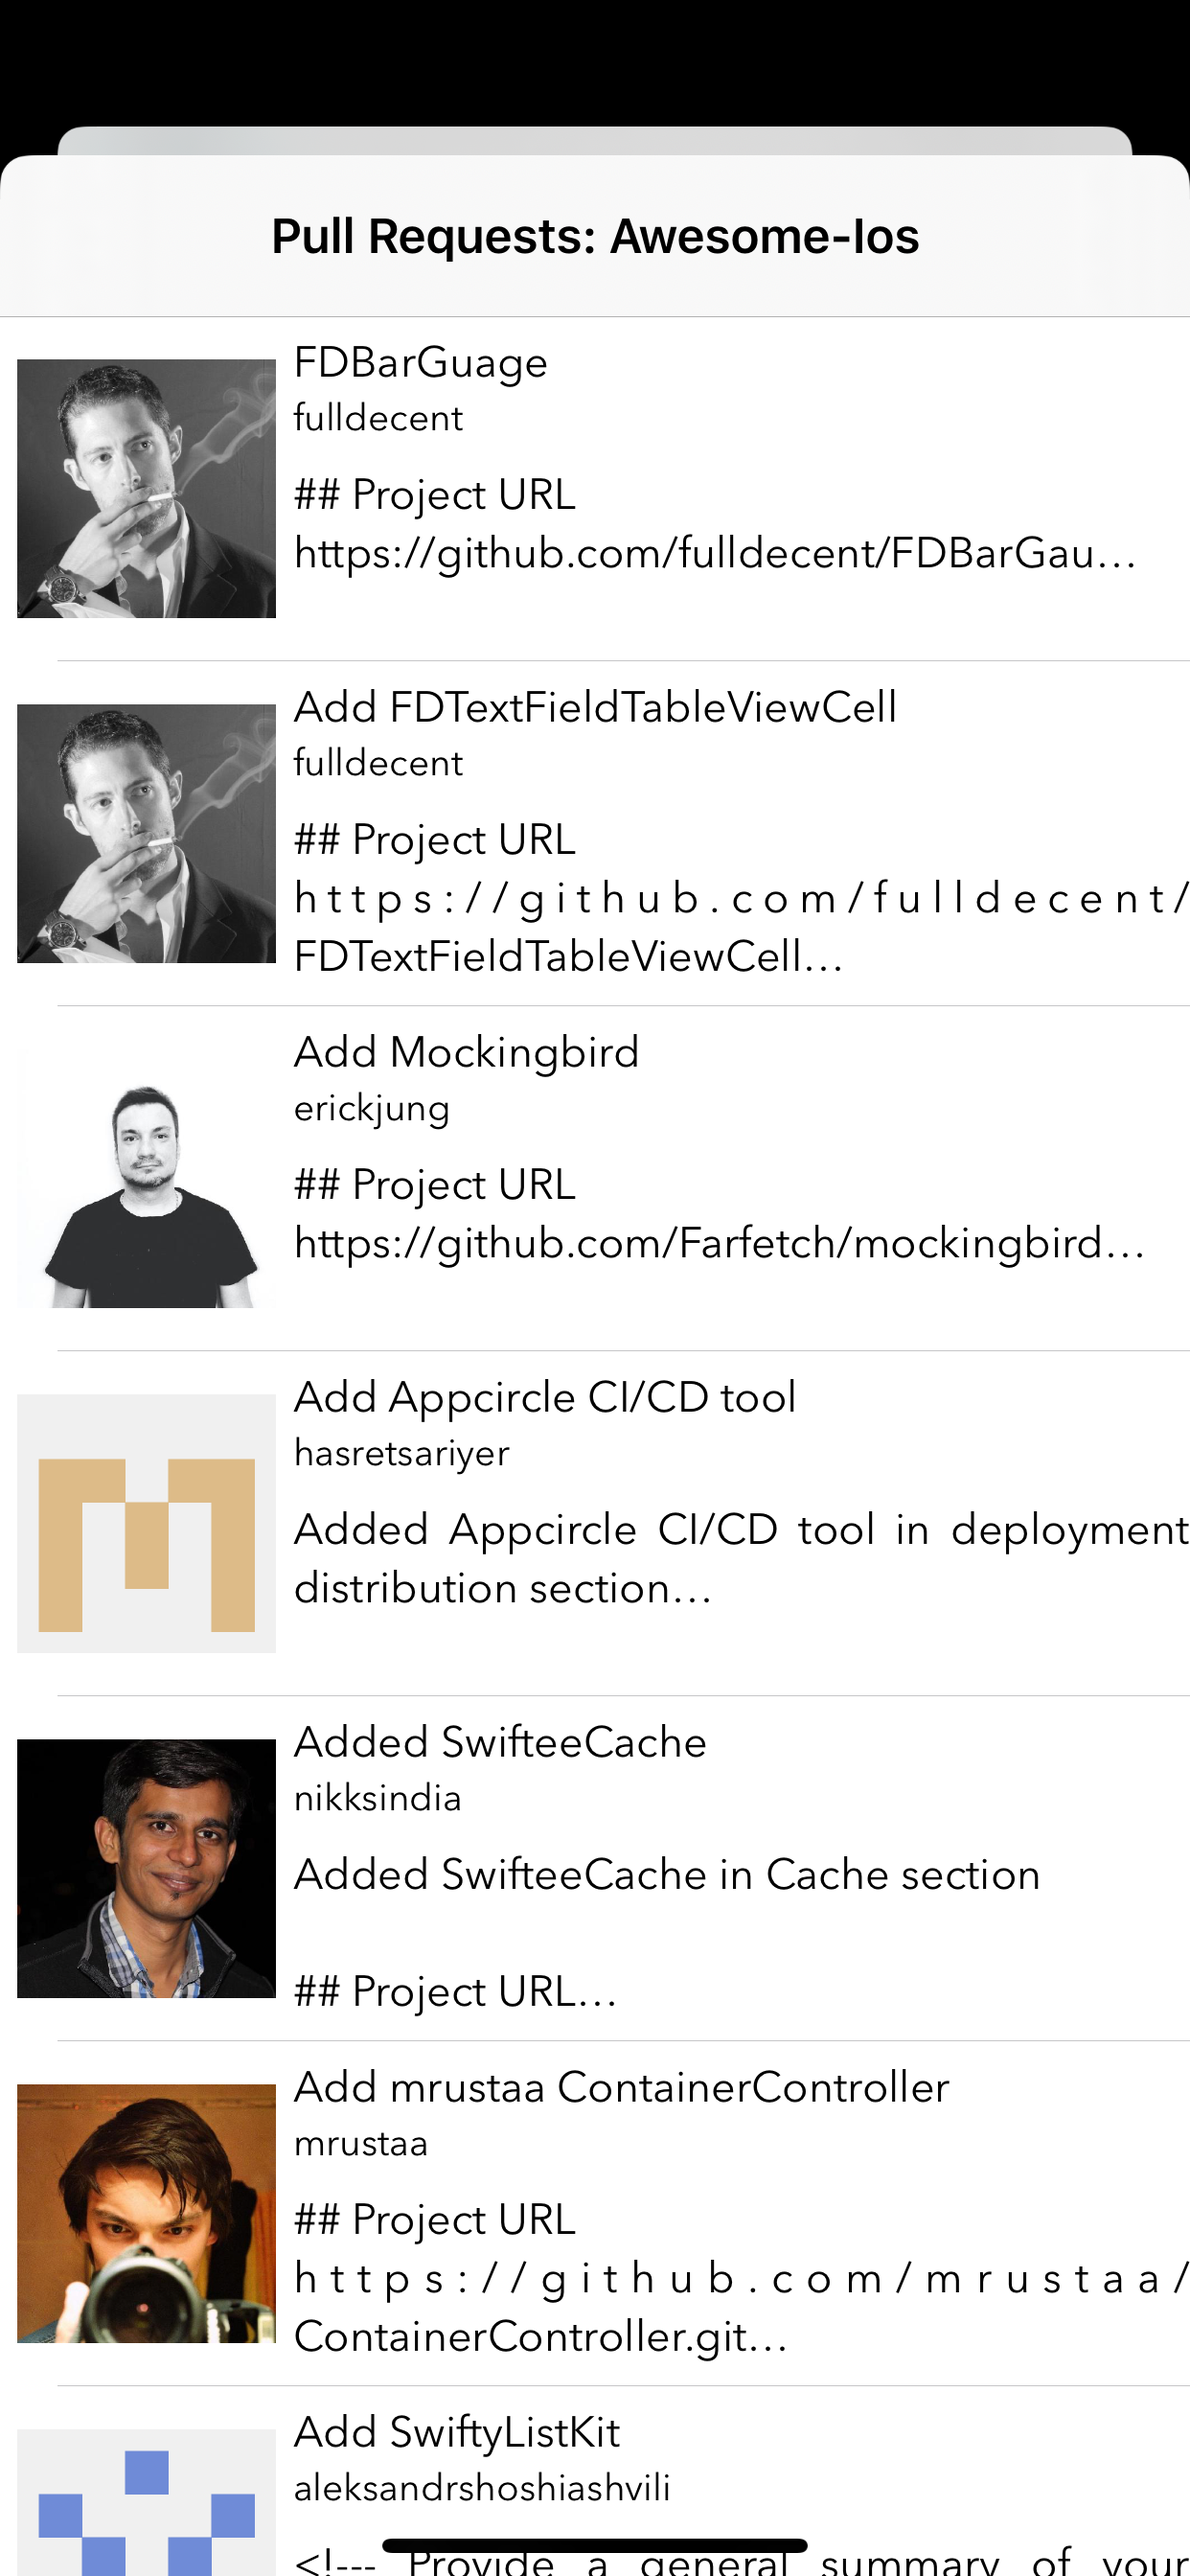
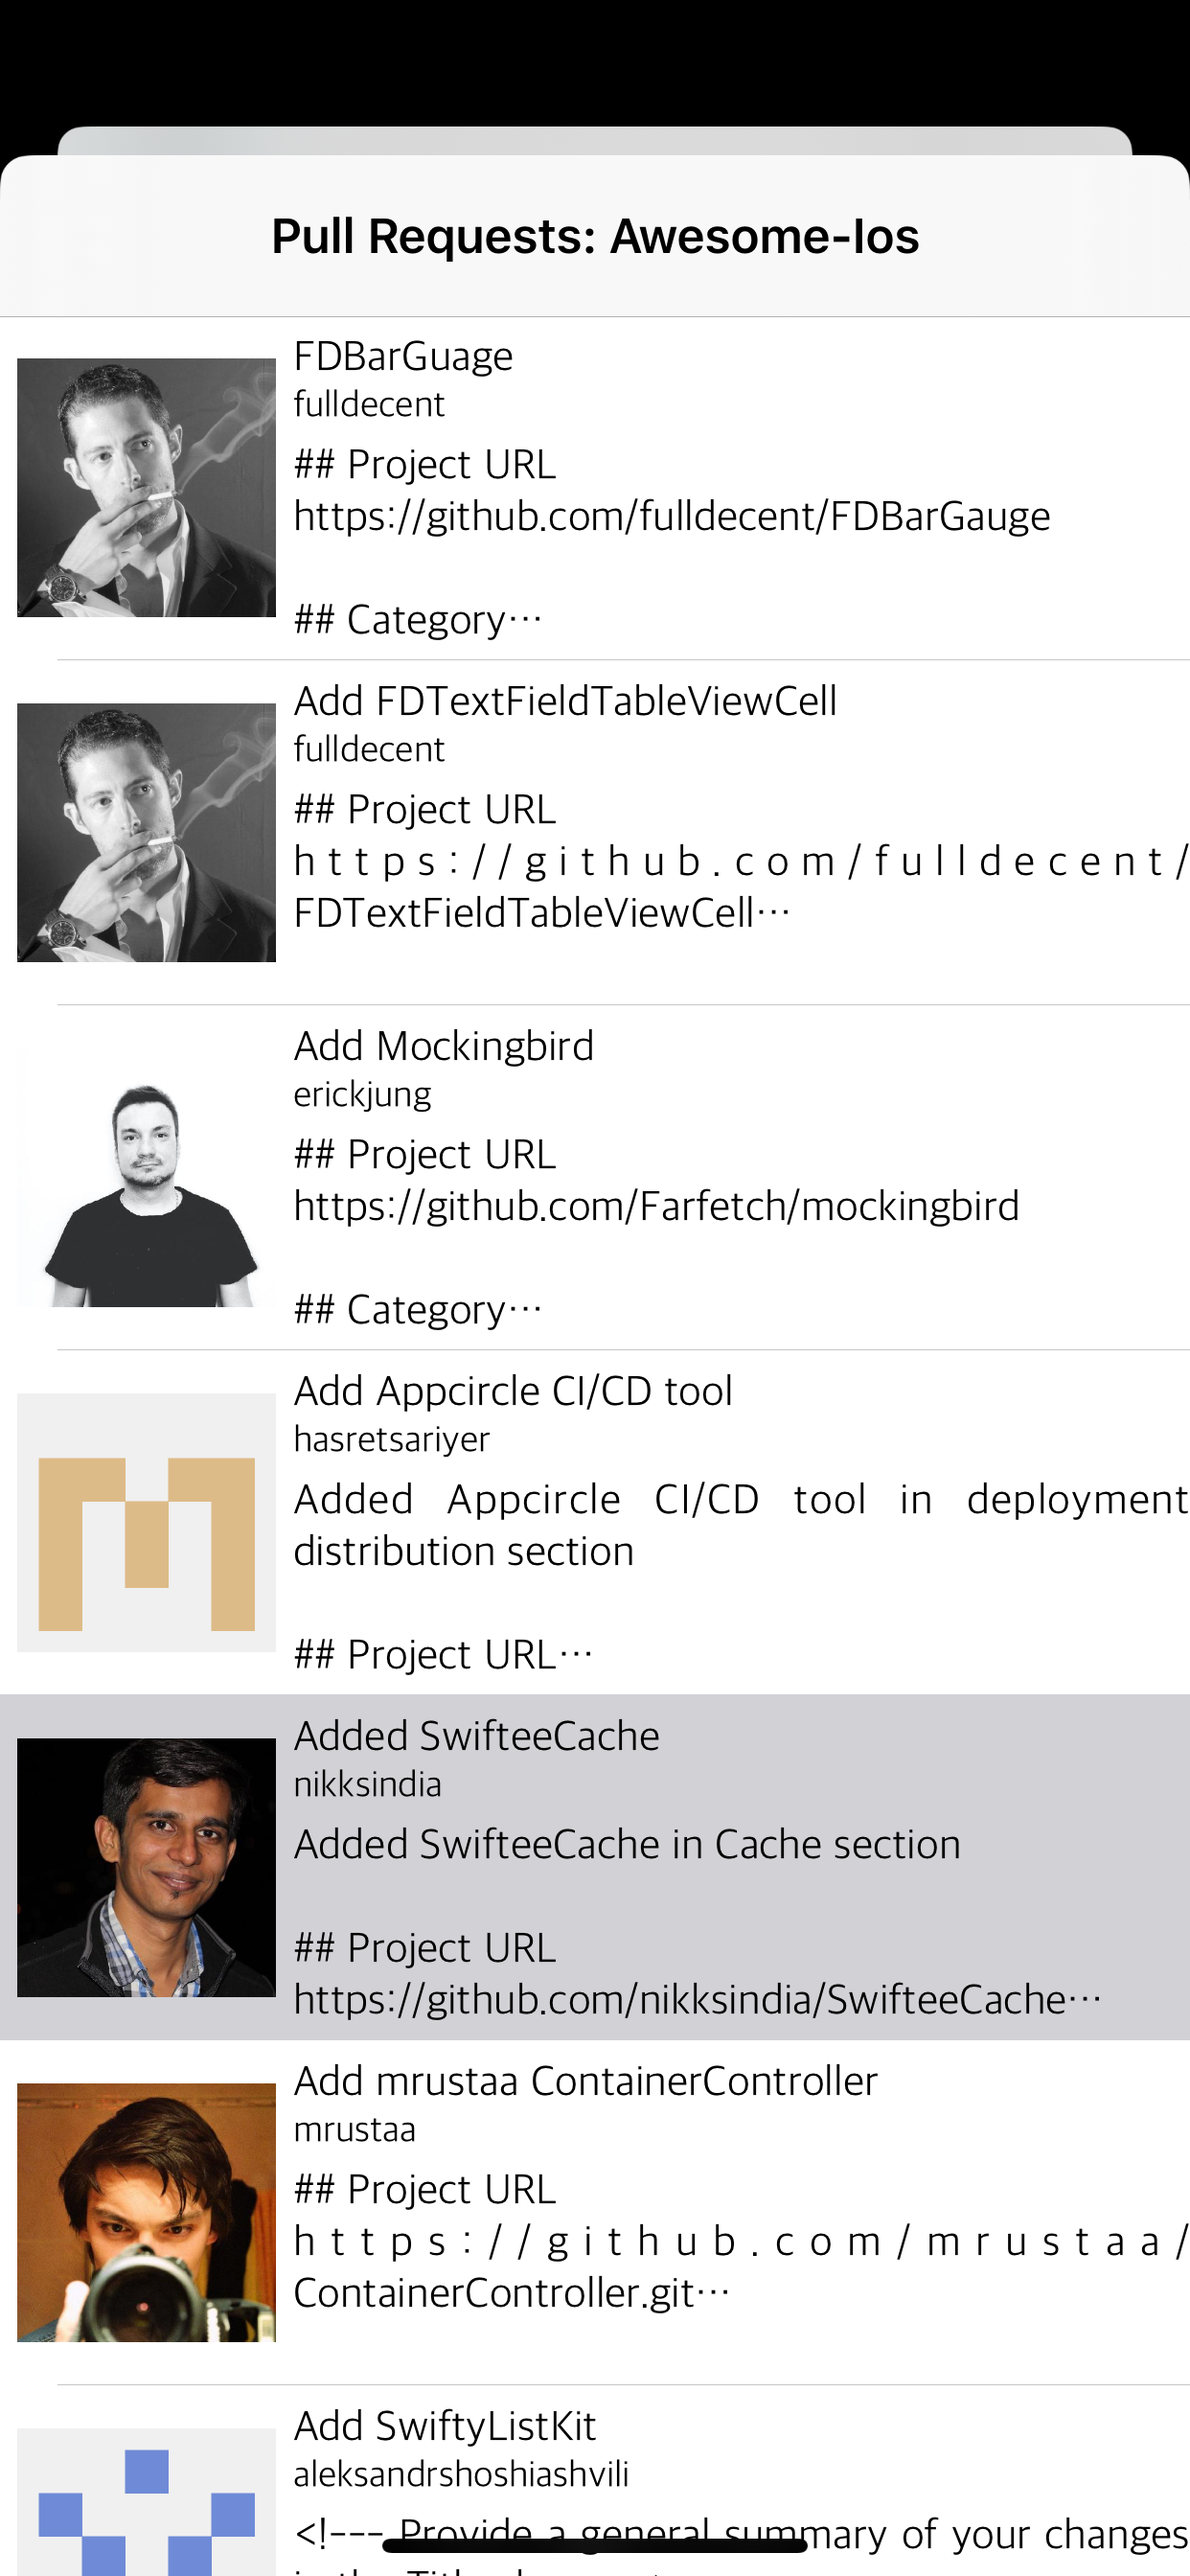
refactor ui test

diff --git a/TopSwiftRepositories/View/Cells/RepositoryCell.swift b/TopSwiftRepositories/View/Cells/RepositoryCell.swift
@@ -37,7 +37,7 @@ class RepositoryCell: UITableViewCell {
     private lazy var repositoryNameLabel: UILabel = {
         let label = UILabel()
         
-        label.font = UIFont(name: "Avenir Next", size: 15)
+        label.font = UIFont(name: "AppleSDGothicNeo-Light", size: 15)
         label.textColor = UIColor.black
         label.setContentCompressionResistancePriority(.defaultLow, for: .horizontal)
         label.translatesAutoresizingMaskIntoConstraints = false
@@ -48,7 +48,7 @@ class RepositoryCell: UITableViewCell {
     private lazy var repositoryOwnerLabel: UILabel = {
         let label = UILabel()
         
-        label.font = UIFont(name: "Avenir Next", size: 13)
+        label.font = UIFont(name: "AppleSDGothicNeo-Light", size: 13)
         label.setContentCompressionResistancePriority(.defaultHigh, for: .horizontal)
         label.translatesAutoresizingMaskIntoConstraints = false
         
@@ -68,7 +68,7 @@ class RepositoryCell: UITableViewCell {
     private lazy var repositoryStarsAmountLabel: UILabel = {
         let label = UILabel()
         
-        label.font = UIFont(name: "Avenir Next", size: 15)
+        label.font = UIFont(name: "AppleSDGothicNeo-Light", size: 15)
         label.textColor = UIColor.black
         label.textAlignment = .right
         label.setContentCompressionResistancePriority(.defaultHigh, for: .horizontal)
@@ -90,7 +90,7 @@ class RepositoryCell: UITableViewCell {
     private lazy var repositoryForksAmountLabel: UILabel = {
         let label = UILabel()
         
-        label.font = UIFont(name: "Avenir Next", size: 15)
+        label.font = UIFont(name: "AppleSDGothicNeo-Light", size: 15)
         label.textColor = UIColor.black
         label.textAlignment = .right
         label.setContentCompressionResistancePriority(.defaultHigh, for: .horizontal)
@@ -102,7 +102,7 @@ class RepositoryCell: UITableViewCell {
     private lazy var repositoryDescriptionLabel: UILabel = {
         let label = UILabel()
         
-        label.font = UIFont(name: "Avenir Next", size: 15)
+        label.font = UIFont(name: "AppleSDGothicNeo-Light", size: 15)
         label.textColor = UIColor.black
         label.textAlignment = .justified
         label.numberOfLines = 0

diff --git a/TopSwiftRepositories/View/Cells/PullRequestCell.swift b/TopSwiftRepositories/View/Cells/PullRequestCell.swift
@@ -22,7 +22,7 @@ class PullRequestCell: UITableViewCell {
     
     private lazy var pullRequestTitleLabel: UILabel = {
         let label = UILabel()
-        label.font = UIFont(name: "Avenir Next", size: 15)
+        label.font = UIFont(name: "AppleSDGothicNeo-Light", size: 15)
         label.textColor = UIColor.black
         label.setContentCompressionResistancePriority(.defaultLow, for: .horizontal)
         label.translatesAutoresizingMaskIntoConstraints = false
@@ -32,7 +32,7 @@ class PullRequestCell: UITableViewCell {
     
     private lazy var descriptionPullRequestLabel: UILabel = {
         let label = UILabel()
-        label.font = UIFont(name: "Avenir Next", size: 15)
+        label.font = UIFont(name: "AppleSDGothicNeo-Light", size: 15)
         label.textColor = UIColor.black
         label.textAlignment = .justified
         label.numberOfLines = 0
@@ -44,7 +44,7 @@ class PullRequestCell: UITableViewCell {
     
     private lazy var authorNameLabel: UILabel = {
         let label = UILabel()
-        label.font = UIFont(name: "Avenir Next", size: 13)
+        label.font = UIFont(name: "AppleSDGothicNeo-Light", size: 13)
         label.setContentCompressionResistancePriority(.defaultHigh, for: .horizontal)
         label.translatesAutoresizingMaskIntoConstraints = false
         

diff --git a/TopSwiftRepositoriesFuncionalTests/Scenes/TopListRepositories/TopListRepositoriesViewControllerTest.swift b/TopSwiftRepositoriesFuncionalTests/Scenes/TopListRepositories/TopListRepositoriesViewControllerTest.swift
@@ -39,7 +39,7 @@ class TopListRepositoriesViewControllerTest: FBSnapshotTestCase {
         tester().waitForAnimationsToFinish()
         let imageViewFirstScreen = getCurrentImageScreen()
         
-        FBSnapshotVerifyView(imageViewFirstScreen, identifier: "first_screen", overallTolerance: 0.1)
+        FBSnapshotVerifyView(imageViewFirstScreen, identifier: "first_screen", overallTolerance: 0.2)
         
         
         //validate infinity scroll layout
@@ -47,7 +47,7 @@ class TopListRepositoriesViewControllerTest: FBSnapshotTestCase {
         
         tester().waitForAnimationsToFinish()
         let imgFooter = getCurrentImageScreen()
-        FBSnapshotVerifyView(imgFooter, identifier: "infinity_loading",overallTolerance: 0.1)
+        FBSnapshotVerifyView(imgFooter, identifier: "infinity_loading",overallTolerance: 0.2)
     }
     
     func getCurrentImageScreen() -> UIImageView {
